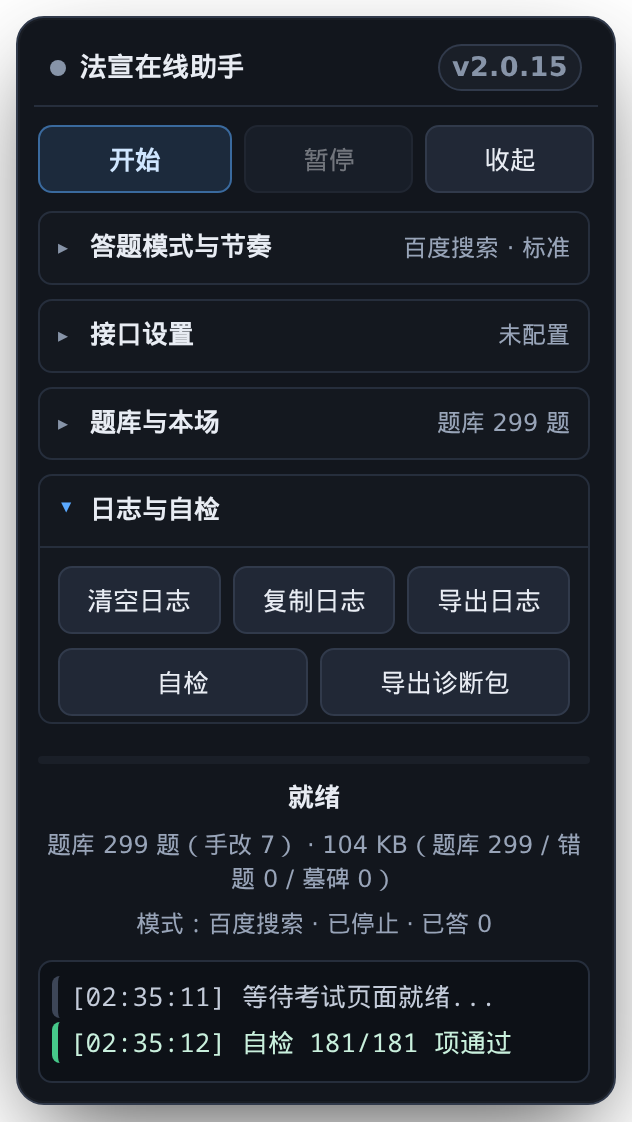
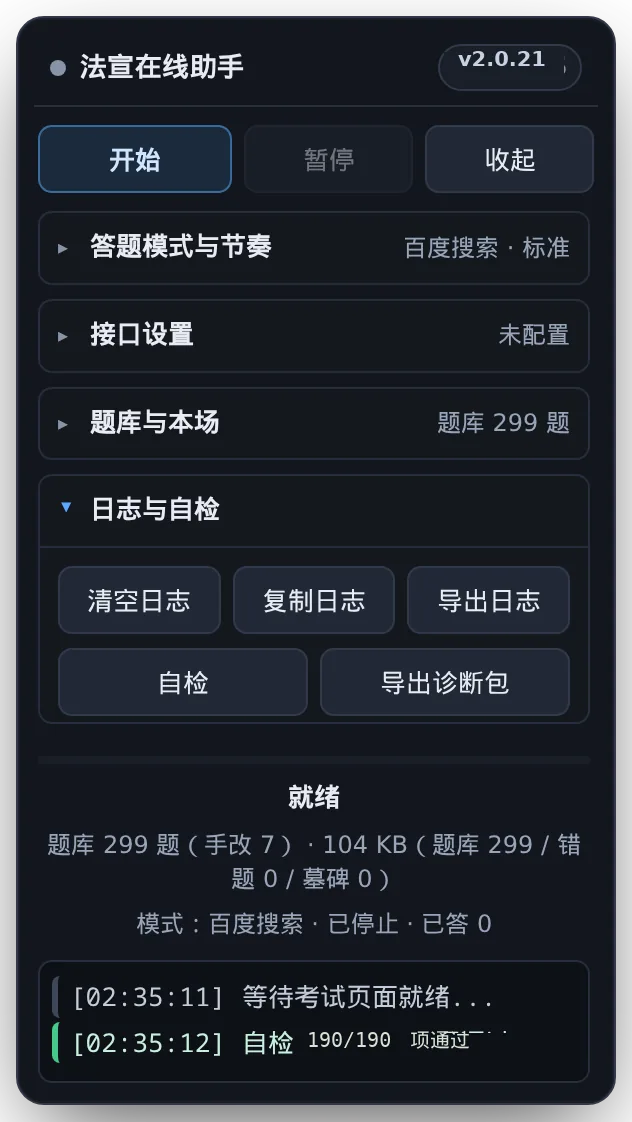
test: 补按钮缓存倒计时回归；docs: 预览图同步 v2.0.21 / 190 项自检

Changed region(s): [[0.481, 0.9046, 0.8117, 0.9358], [0.7215, 0.0312, 0.9019, 0.0936]]

diff --git a/faxuanyun-legal-exam-assistant.user.js b/faxuanyun-legal-exam-assistant.user.js
@@ -6651,6 +6651,7 @@
             storageFootprint, storageOverLimit, buildDisputesExport, buildDiagnostics,
             purgeTombstones, filterTombstoned, addTombKey, clearTombKey,
             dayStamp, timeStamp, bankFileNames, logFileName, parseBankPayload,
+            buttonCacheVersion: () => domVer,
             selfTestCases, runSelfTest,
         };
         // 写库/发请求的内部函数一律不挂到 window。

diff --git a/README.md b/README.md
@@ -6,7 +6,7 @@
 [![selftest CI](https://github.com/Gnayiel/faxuanyun-legal-exam-assistant/actions/workflows/selftest.yml/badge.svg)](https://github.com/Gnayiel/faxuanyun-legal-exam-assistant/actions/workflows/selftest.yml)
 [![self-test](https://img.shields.io/badge/self--test-190%20passing-success)](CONTRIBUTING.md#质量门禁与工具)
 [![panel--smoke](https://img.shields.io/badge/panel--smoke-40%20passing-success)](CONTRIBUTING.md#质量门禁与工具)
-[![page--smoke](https://img.shields.io/badge/page--smoke-103%20passing-success)](CONTRIBUTING.md#质量门禁与工具)
+[![page--smoke](https://img.shields.io/badge/page--smoke-105%20passing-success)](CONTRIBUTING.md#质量门禁与工具)
 [![Tampermonkey](https://img.shields.io/badge/Tampermonkey-4.0%2B-black)](https://www.tampermonkey.net/)
 
 <p align="center">

diff --git a/CHANGELOG.md b/CHANGELOG.md
@@ -13,6 +13,18 @@
 
 ---
 
+## 未发布
+
+### 测试
+
+- **补按钮缓存的倒计时回归测试**：页面冒烟新增两条断言——普通文本（模拟倒计时）每秒刷新时 `domVer` 不变，
+  只有按钮本身的增删 / 文字变化才递增；页面断言 103→105。
+
+### 验证方式
+
+- `npm run ci` 8 步全过：selftest 190/190、check-data 299 题、merge-smoke 17/17、panel 40/40、**105 项断言全部通过**。
+- `node tools/page-smoke.mjs --require-browser` 单独复跑：105/105。
+
 ## v2.0.21
 
 ### 修复
